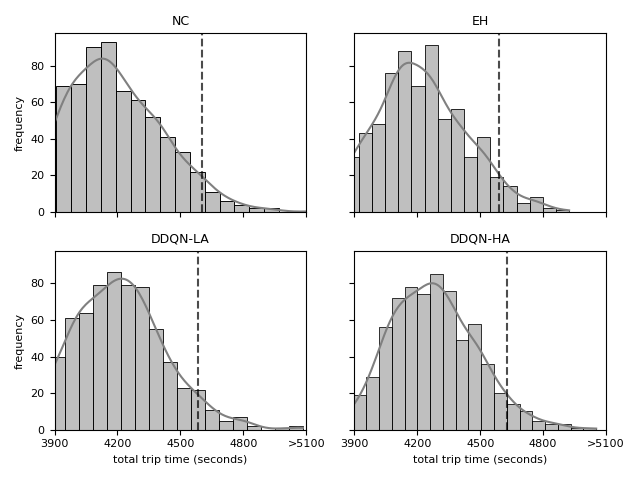
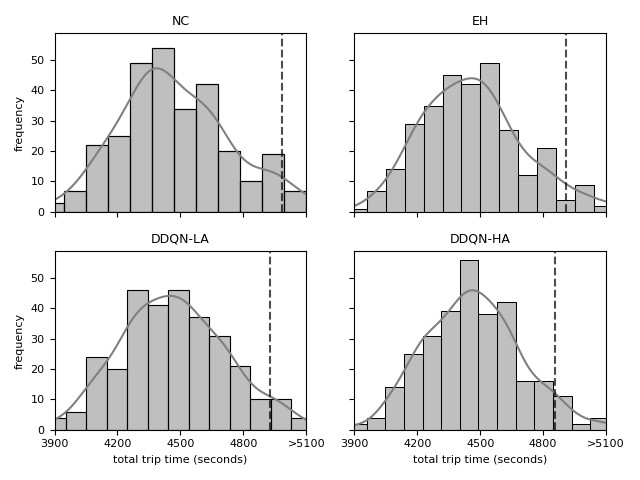
compliance runs

diff --git a/src/04_SIMULATION/main.py b/src/04_SIMULATION/main.py
@@ -2,8 +2,13 @@ import argparse
 import agents_dqn as Agents
 from utils import plot_learning
 import sim_env
-import post_process
-from input import *
+from post_process import pax_per_trip_from_trajectory_set, load
+import numpy as np
+import time
+import matplotlib.pyplot as plt
+import pandas as pd
+from input import STOPS, CONTROLLED_STOPS, FOCUS_TRIPS_MEAN_HW, N_ACTIONS_RL, LIMIT_HOLDING, IDX_RT_PROGRESS
+from input import IDX_LOAD, IDX_PICK, IDX_DROP, N_STATE_PARAMS_RL, IDX_PAX_AT_STOP
 import os
 
 if __name__ == '__main__':
@@ -131,58 +136,62 @@ if __name__ == '__main__':
     else:
         # --------------------------------- TESTING ----------------------------------------------------------------
         agent.load_models()
-        tstamp = datetime.now().strftime('%m%d-%H%M%S')
-        trajectories_set = []
-        sars_set = []
-        pax_set = []
-        for j in range(args.n_episodes):
-            score = 0
-            env = sim_env.DetailedSimulationEnvWithDeepRL(tt_factor=args.tt_factor, hold_adj_factor=args.hold_adj_factor,
-                                                          estimate_pax=args.estimated_pax)
-            done = env.reset_simulation()
-            done = env.prep()
-            while not done:
-                if not env.bool_terminal_state:
-                    trip_id = env.bus.active_trip[0].trip_id
-                    all_sars = env.trips_sars[trip_id]
-                    observation = np.array(all_sars[-1][0], dtype=np.float32)
-                    route_progress = observation[IDX_RT_PROGRESS]
-                    pax_at_stop = observation[IDX_PAX_AT_STOP]
+        # tstamp = datetime.now().strftime('%m%d-%H%M%S')
+        # trajectories_set = []
+        # sars_set = []
+        # pax_set = []
+        # for j in range(args.n_episodes):
+        #     score = 0
+        #     env = sim_env.DetailedSimulationEnvWithDeepRL(tt_factor=args.tt_factor, hold_adj_factor=args.hold_adj_factor,
+        #                                                   estimate_pax=args.estimated_pax)
+        #     done = env.reset_simulation()
+        #     done = env.prep()
+        #     while not done:
+        #         if not env.bool_terminal_state:
+        #             trip_id = env.bus.active_trip[0].trip_id
+        #             all_sars = env.trips_sars[trip_id]
+        #             observation = np.array(all_sars[-1][0], dtype=np.float32)
+        #             route_progress = observation[IDX_RT_PROGRESS]
+        #             pax_at_stop = observation[IDX_PAX_AT_STOP]
+        #
+        #             curr_stop = [s for s in env.stops if s.stop_id == env.bus.last_stop_id]
+        #             previous_denied = False
+        #             for p in curr_stop[0].pax.copy():
+        #                 if p.arr_time <= env.time:
+        #                     if p.denied:
+        #                         previous_denied = True
+        #                         break
+        #                 else:
+        #                     break
+        #             if route_progress == 0.0 or pax_at_stop == 0 or previous_denied or args.simple_reward:
+        #                 action = agent.choose_action(observation, mask_idx=0)
+        #             else:
+        #                 action = agent.choose_action(observation)
+        #             env.take_action(action)
+        #         done = env.prep()
+        #     env.process_results()
+        #     trajectories_set.append(env.trajectories)
+        #     sars_set.append(env.trips_sars)
+        #     pax_set.append(env.completed_pax)
+        # path_trajectories = 'out/' + args.test_save_folder + '/trajectory_set_' + tstamp + '.pkl'
+        # path_sars = 'out/' + args.test_save_folder + '/sars_set_' + tstamp + '.pkl'
+        # path_completed_pax = 'out/' + args.test_save_folder + '/pax_set_' + tstamp + '.pkl'
+        # SAVE RESULTS
+        # post_process.save(path_trajectories, trajectories_set)
+        # post_process.save(path_sars, sars_set)
+        # post_process.save(path_completed_pax, pax_set)
+        # with open('out/' + args.test_save_folder + '/net_used_' + tstamp + '.csv', 'w') as f:
+        #     f.write(str(args.env))
 
-                    curr_stop = [s for s in env.stops if s.stop_id == env.bus.last_stop_id]
-                    previous_denied = False
-                    for p in curr_stop[0].pax.copy():
-                        if p.arr_time <= env.time:
-                            if p.denied:
-                                previous_denied = True
-                                break
-                        else:
-                            break
-                    if route_progress == 0.0 or pax_at_stop == 0 or previous_denied or args.simple_reward:
-                        action = agent.choose_action(observation, mask_idx=0)
-                    else:
-                        action = agent.choose_action(observation)
-                    env.take_action(action)
-                done = env.prep()
-            env.process_results()
-            trajectories_set.append(env.trajectories)
-            sars_set.append(env.trips_sars)
-            pax_set.append(env.completed_pax)
-        path_trajectories = 'out/' + args.test_save_folder + '/trajectory_set_' + tstamp + '.pkl'
-        path_sars = 'out/' + args.test_save_folder + '/sars_set_' + tstamp + '.pkl'
-        path_completed_pax = 'out/' + args.test_save_folder + '/pax_set_' + tstamp + '.pkl'
-        post_process.save(path_trajectories, trajectories_set)
-        post_process.save(path_sars, sars_set)
-        post_process.save(path_completed_pax, pax_set)
-        with open('out/' + args.test_save_folder + '/net_used_' + tstamp + '.csv', 'w') as f:
-            f.write(str(args.env))
-        # trajectories_set = load('out/DDQN-LA/trajectory_set_0122-145334.pkl')
+        # trajectories_set = load('out/DDQN-HA/trajectory_set_0303-120150.pkl')
         # load_mean, _, _, ons_mean, _ = pax_per_trip_from_trajectory_set(trajectories_set, IDX_LOAD,
         #                                                                 IDX_PICK, IDX_DROP, STOPS)
-        # stable = (FOCUS_TRIPS_MEAN_HW, FOCUS_TRIPS_MEAN_HW, FOCUS_TRIPS_MEAN_HW)
-        # early = (FOCUS_TRIPS_MEAN_HW-FOCUS_TRIPS_MEAN_HW/2, FOCUS_TRIPS_MEAN_HW+FOCUS_TRIPS_MEAN_HW/2, FOCUS_TRIPS_MEAN_HW)
-        # late = (FOCUS_TRIPS_MEAN_HW+FOCUS_TRIPS_MEAN_HW/2, FOCUS_TRIPS_MEAN_HW-FOCUS_TRIPS_MEAN_HW/2, FOCUS_TRIPS_MEAN_HW)
-        # policies = np.zeros((3, len(CONTROLLED_STOPS)-1, N_ACTIONS_RL-1))
+        # hw = FOCUS_TRIPS_MEAN_HW
+        # stable = (hw+hw/4, hw+hw/4, hw)
+        # early = (hw-hw/4, hw+hw/4, hw)
+        # late = (hw+hw/4, hw-hw/4, hw)
+        # controlled_stop_idx = [STOPS.index(cs) + 1 for cs in CONTROLLED_STOPS[:-1]]
+        # policies = np.zeros((3, len(CONTROLLED_STOPS)-1, N_ACTIONS_RL))
         # route_progress_scenarios = np.array([(STOPS.index(s) / len(STOPS)) for s in CONTROLLED_STOPS[:-1]])
         # avg_load = np.array([load_mean[STOPS.index(s)] for s in CONTROLLED_STOPS[:-1]])
         # avg_ons = np.array([ons_mean[STOPS.index(s)] for s in CONTROLLED_STOPS[:-1]])
@@ -190,25 +199,41 @@ if __name__ == '__main__':
         # for scenario in (stable, early, late):
         #     for i in range(route_progress_scenarios.size):
         #         obs = np.array([route_progress_scenarios[i], avg_load[i], scenario[0], scenario[1], avg_ons[i], scenario[2]], dtype=np.float32)
-        #         q_values = agent.q_values(obs).detach().numpy()[0][1:]
+        #         # q_values = agent.q_values(obs).detach().numpy()[0][1:]
+        #         q_values = agent.q_values(obs).detach().numpy()[0]
         #         temp = np.argsort(q_values)
         #         rank_q_values = np.empty_like(temp)
         #         rank_q_values[temp] = np.arange(len(q_values))
-        #         if scenario == stable and i == 0:
+        #         if scenario == stable and i == 1:
         #             x = rank_q_values[-1]
-        #             rank_q_values[-1] = rank_q_values[-2]
-        #             rank_q_values[-2] = x
+        #             rank_q_values[-1] = rank_q_values[-4]
+        #             rank_q_values[-4] = x
+        #         if scenario == stable and i in [2, 3]:
+        #             x = rank_q_values[-1]
+        #             rank_q_values[-1] = rank_q_values[-3]
+        #             rank_q_values[-3] = x
+        #         if scenario == late and i ==0:
+        #             x = rank_q_values[1]
+        #             rank_q_values[1] = rank_q_values[2]
+        #             rank_q_values[2] = x
         #         policies[k, i] = rank_q_values
         #     k += 1
-        # fig_names = ['on time', 'early', 'late']
+        # fig_names = [r'$h_{i,k}, h_{i+1,k} = (4.5, 4.5)$ min',
+        #              r'$h_{i,k}, h_{i+1,k} = (3.0, 6.0)$ min',
+        #              r'$h_{i,k}, h_{i+1,k} = (6.0, 3.0)$ min']
+        # fig, axs = plt.subplots(ncols=3, sharey='all')
         # for i in range(policies.shape[0]):
-        #     plt.imshow(policies[i].T, cmap='Greens')
-        #     plt.xticks(np.arange(len(route_progress_scenarios)), np.arange(len(route_progress_scenarios)) + 1, fontsize=10)
-        #     plt.yticks(np.arange(N_ACTIONS_RL-1), ['$T_{hold} = 0.0\omega H$', '$T_{hold} = 0.25\omega H$', '$T_{hold} = 0.50\omega H$', '$T_{hold} = 0.75\omega H$', '$T_{hold} = 1.0\omega H$'], fontsize=10)
-        #     plt.xlabel('control stop', fontsize=10)
-        #     plt.title(fig_names[i] + ' bus', fontsize=10)
-        #     plt.savefig('out/'+ args.save_folder +'/policy_' + fig_names[i] + '.png')
-        #     plt.close()
+        #     axs[i].imshow(policies[i].T, cmap='Greys')
+        #     axs[i].set_xticks(np.arange(len(route_progress_scenarios)), controlled_stop_idx, fontsize=9)
+        #     axs[i].set_xlabel('control stop', fontsize=9)
+        #     axs[i].set_title(fig_names[i], fontsize=9)
+        #
+        # lbls = ['skip', '0', '25', '50', '75', '100']
+        # axs[0].set_ylabel(r'action (skip or $T_{hold}$)', fontsize=9)
+        # axs[0].set_yticks(np.arange(N_ACTIONS_RL), lbls, fontsize=9)
+        # plt.tight_layout()
+        # plt.savefig('out/q_policy_DDQN_HA.png')
+        # plt.close()
 
 # cd src/04_SIMULATION
 # train

diff --git a/src/04_SIMULATION/main_sim.py b/src/04_SIMULATION/main_sim.py
@@ -151,7 +151,6 @@ N_REPLICATIONS = 70
 #                 'rbt_median': [np.around(np.median(rbt), decimals=2) for rbt in rbt_od_set]})
 # results.update(prc.headway())
 # results.update(prc.load_profile())
-# results.update(prc.trip_time_dist())
 # # prc.write_trajectories()
 # results.update(prc.control_actions())
 # results_df = pd.DataFrame(results, columns=list(results.keys()))
@@ -178,13 +177,13 @@ N_REPLICATIONS = 70
 
 
 # CHECK TRIP TIMES (DWELL TIMES AND EXTREME TT BOUND)
-# prc_t = PostProcessor([path_tr_nc_t, path_tr_eh_t, path_tr_ddqn_la_t,
-#                        path_tr_ddqn_ha_t],
-#                       [path_p_nc_t, path_p_eh_t, path_p_ddqn_la_t,
-#                        path_p_ddqn_la_t], tags_b, 30,
-#                       path_dir_b)
-# results = prc_t.trip_time_dist()
-# print(results)
+prc_t = PostProcessor([path_tr_nc_t, path_tr_eh_t, path_tr_ddqn_la_t,
+                       path_tr_ddqn_ha_t],
+                      [path_p_nc_t, path_p_eh_t, path_p_ddqn_la_t,
+                       path_p_ddqn_la_t], tags_b, 30,
+                      path_dir_b)
+results = prc_t.trip_time_dist()
+print(results)
 
 # # VARIABILITY RUN TIMES
 #
@@ -208,20 +207,20 @@ N_REPLICATIONS = 70
 #
 # # SENSITIVITY TO COMPLIANCE FACTOR
 #
-prc = PostProcessor([path_tr_eh_base_s2, path_tr_ddqn_la_base_s2, path_tr_ddqn_ha_base_s2,
-                     path_tr_eh_80_s2, path_tr_ddqn_la_80_s2, path_tr_ddqn_ha_80_s2,
-                     path_tr_eh_60_s2, path_tr_ddqn_la_60_s2, path_tr_ddqn_ha_60_s2],
-                    [path_p_eh_base_s2, path_p_ddqn_la_base_s2, path_p_ddqn_ha_base_s2,
-                     path_p_eh_80_s2, path_p_ddqn_la_80_s2, path_p_ddqn_ha_80_s2,
-                     path_p_eh_60_s2, path_p_ddqn_la_60_s2, path_p_ddqn_ha_60_s2], tags_s2, N_REPLICATIONS, path_dir_s2)
-results = {}
-results.update(prc.pax_times_fast(include_rbt=False))
-rbt_od_set = load(path_dir_s2 + 'rbt_numer.pkl')
-wt_all_set = load(path_dir_s2 + 'wt_numer.pkl')
-plot_sensitivity_whisker(rbt_od_set, wt_all_set, ['EH', 'DDQN-LA', 'DDQN-HA'], ['base', '0.8', '0.6'],
-                         'reliability buffer time (min)', 'avg pax wait time (min)', path_dir_s2 + 'pax_times.png')
-results.update({'rbt_mean': [np.around(np.mean(rbt), decimals=2) for rbt in rbt_od_set],
-                'rbt_median': [np.around(np.median(rbt), decimals=2) for rbt in rbt_od_set]})
-# results.update(prc.headway(sensitivity_compliance=True))
-results_df = pd.DataFrame(results, columns=list(results.keys()))
-results_df.to_csv(path_dir_s2 + 'numer_results.csv', index=False)
+# prc = PostProcessor([path_tr_eh_base_s2, path_tr_ddqn_la_base_s2, path_tr_ddqn_ha_base_s2,
+#                      path_tr_eh_80_s2, path_tr_ddqn_la_80_s2, path_tr_ddqn_ha_80_s2,
+#                      path_tr_eh_60_s2, path_tr_ddqn_la_60_s2, path_tr_ddqn_ha_60_s2],
+#                     [path_p_eh_base_s2, path_p_ddqn_la_base_s2, path_p_ddqn_ha_base_s2,
+#                      path_p_eh_80_s2, path_p_ddqn_la_80_s2, path_p_ddqn_ha_80_s2,
+#                      path_p_eh_60_s2, path_p_ddqn_la_60_s2, path_p_ddqn_ha_60_s2], tags_s2, N_REPLICATIONS, path_dir_s2)
+# results = {}
+# results.update(prc.pax_times_fast(include_rbt=False))
+# rbt_od_set = load(path_dir_s2 + 'rbt_numer.pkl')
+# wt_all_set = load(path_dir_s2 + 'wt_numer.pkl')
+# plot_sensitivity_whisker(rbt_od_set, wt_all_set, ['EH', 'DDQN-LA', 'DDQN-HA'], ['base', '0.8', '0.6'],
+#                          'reliability buffer time (min)', 'avg pax wait time (min)', path_dir_s2 + 'pax_times.png')
+# results.update({'rbt_mean': [np.around(np.mean(rbt), decimals=2) for rbt in rbt_od_set],
+#                 'rbt_median': [np.around(np.median(rbt), decimals=2) for rbt in rbt_od_set]})
+# # results.update(prc.headway(sensitivity_compliance=True))
+# results_df = pd.DataFrame(results, columns=list(results.keys()))
+# results_df.to_csv(path_dir_s2 + 'numer_results.csv', index=False)
